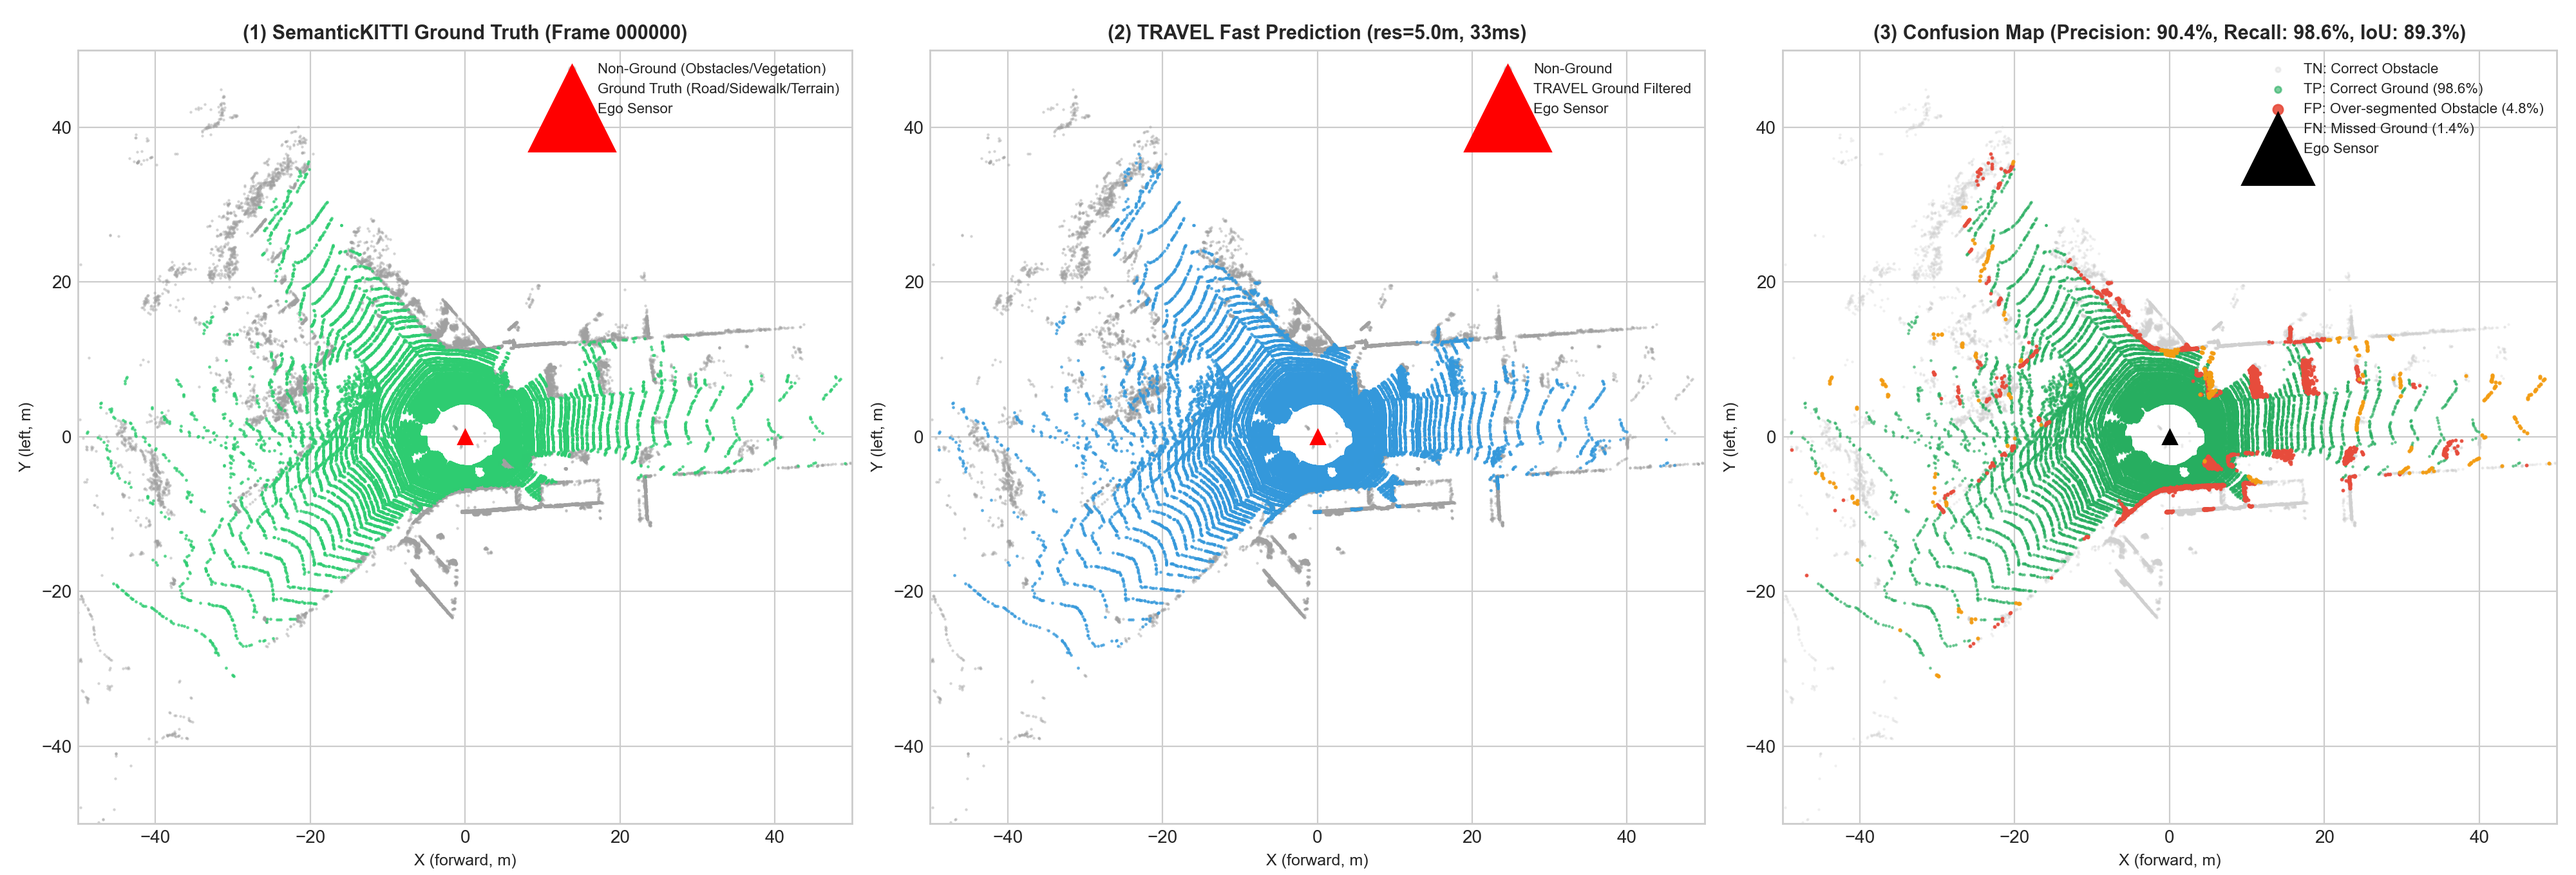
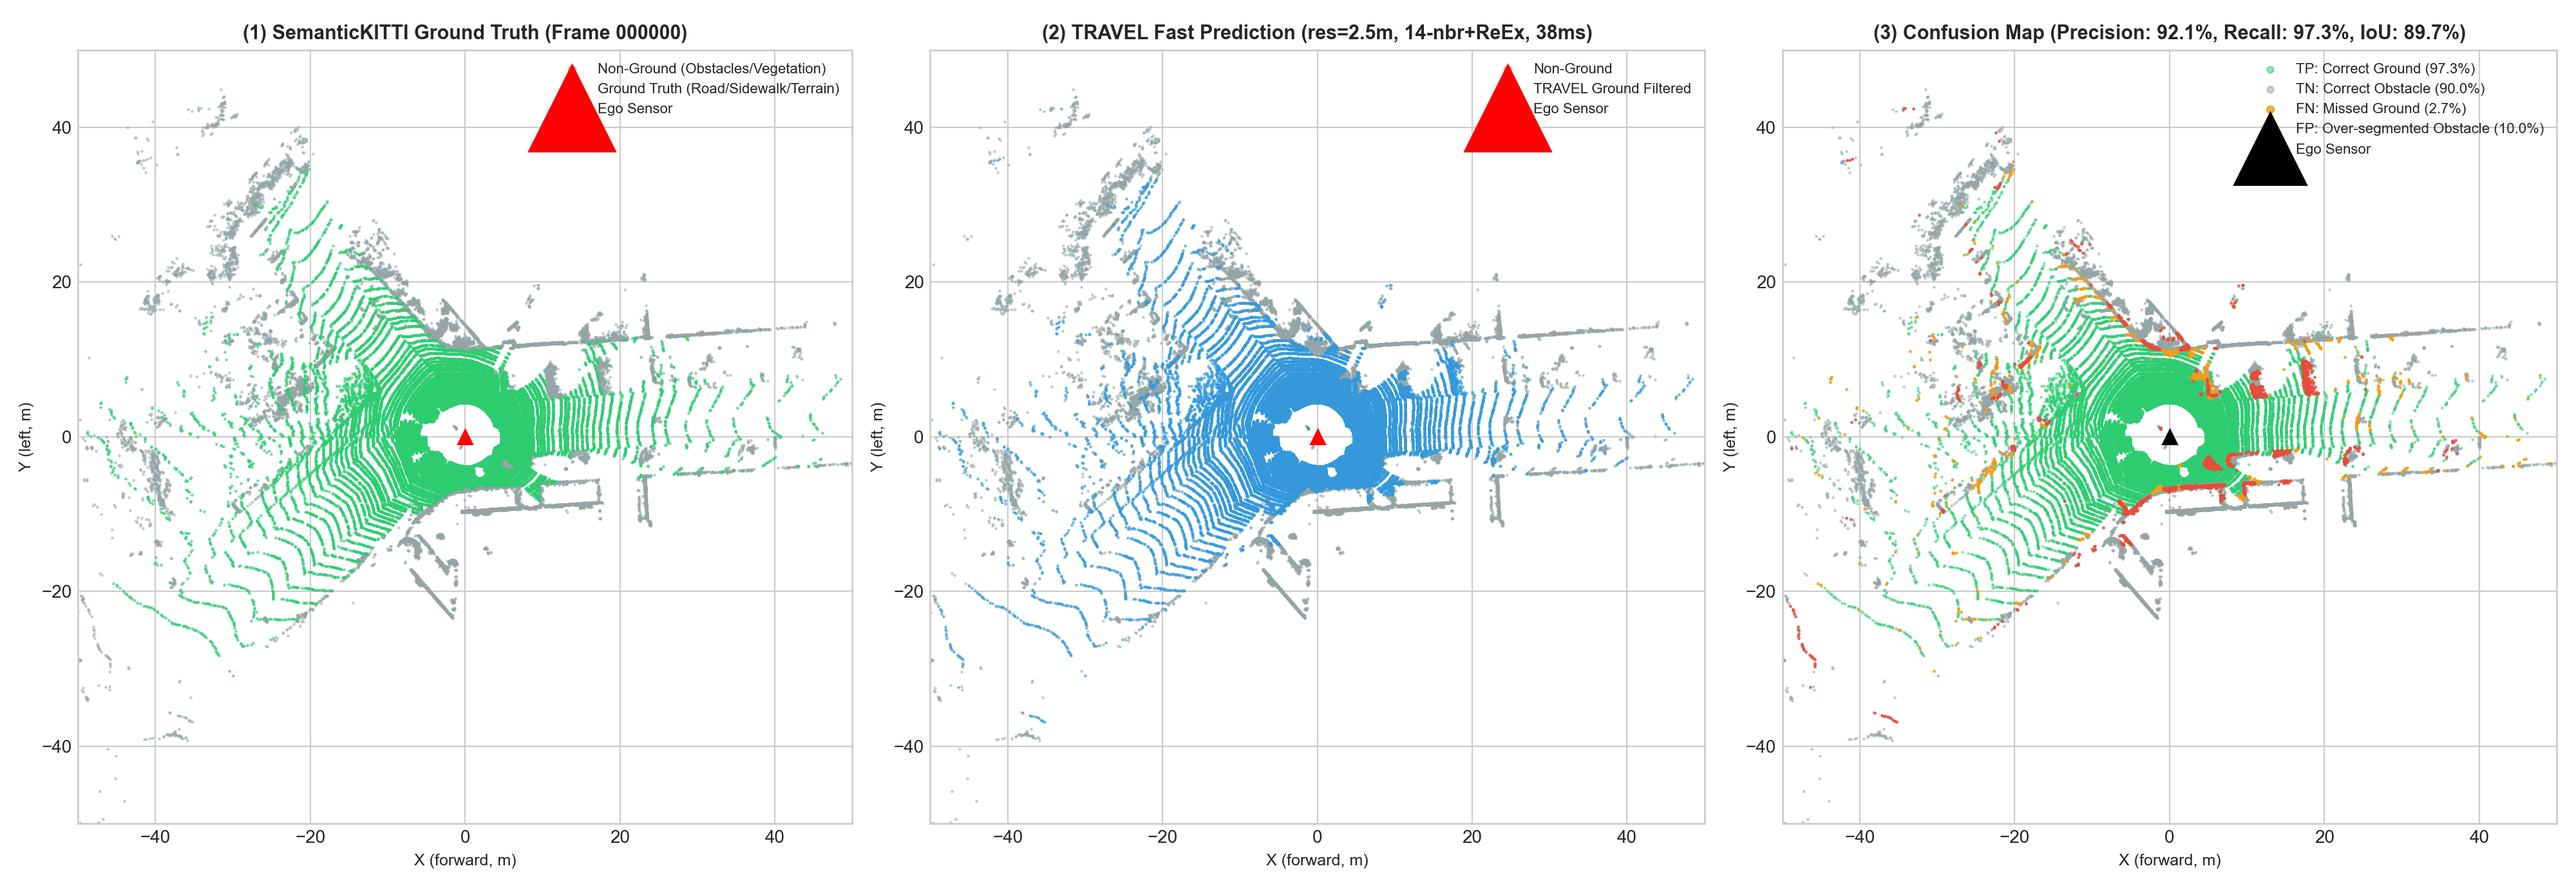
fix(tools): update qualitative benchmark plot to 2.5m 14-nbr setting with balanced marker sizes (#25)

diff --git a/tools/plot_benchmark.py b/tools/plot_benchmark.py
@@ -114,19 +114,20 @@ def plot_qualitative_eval():
     ground_classes = {40, 44, 48, 49, 60, 72}
     gt_ground = np.isin(raw_labels, list(ground_classes))
 
-    # Run TRAVEL with resolution 5.0m
-    nx = int(np.ceil(170 / 5.0))
+    # Run TRAVEL with latest recommended resolution 2.5m (14-nbr + re-explore)
+    resolution = 2.5
+    nx = int(np.ceil(170 / resolution))
     cfg = GlobalConfig(
-        grid=GridConfig(resolution=5.0, origin_xy=(-85.0, -85.0), size_xy=(nx, nx)),
-        seed=SeedConfig(top_k=5, prefer_center=True),
-        accept=AcceptConfig(max_height_diff=0.5, th_normal=0.9),
+        grid=GridConfig(resolution=resolution, origin_xy=(-85.0, -85.0), size_xy=(nx, nx)),
+        seed=SeedConfig(top_k=5, prefer_center=True, re_explore=True, max_components=50),
+        accept=AcceptConfig(max_height_diff=0.5, th_normal=0.9, use_adaptive_lcc=True, use_14_neighbors=True),
     )
     res = run_fast(pts_xyz, cfg, keep_grid=False)
     pred_ground = (res.labels == 1)
 
     # Confusion categories
     # TP: Ground correctly identified (Green)
-    # TN: Non-ground correctly rejected (Light Gray)
+    # TN: Non-ground correctly rejected (Gray)
     # FP: Non-ground falsely marked as ground (Red)
     # FN: Ground missed (Orange)
     tp = gt_ground & pred_ground
@@ -134,8 +135,19 @@ def plot_qualitative_eval():
     fp = (~gt_ground) & pred_ground
     fn = gt_ground & (~pred_ground)
 
+    tp_cnt = int(np.sum(tp))
+    tn_cnt = int(np.sum(tn))
+    fp_cnt = int(np.sum(fp))
+    fn_cnt = int(np.sum(fn))
+    gt_gnd_cnt = int(np.sum(gt_ground))
+    gt_nongnd_cnt = int(np.sum(~gt_ground))
+
+    prec = tp_cnt / (tp_cnt + fp_cnt) * 100 if (tp_cnt + fp_cnt) > 0 else 0
+    rec = tp_cnt / (tp_cnt + fn_cnt) * 100 if (tp_cnt + fn_cnt) > 0 else 0
+    iou = tp_cnt / (tp_cnt + fp_cnt + fn_cnt) * 100 if (tp_cnt + fp_cnt + fn_cnt) > 0 else 0
+
     # Downsample points for clear visualization
-    subsample_idx = np.random.choice(len(pts_xyz), size=min(60000, len(pts_xyz)), replace=False)
+    subsample_idx = np.random.choice(len(pts_xyz), size=min(70000, len(pts_xyz)), replace=False)
     x = pts_xyz[subsample_idx, 0]
     y = pts_xyz[subsample_idx, 1]
     z = pts_xyz[subsample_idx, 2]
@@ -163,8 +175,8 @@ def plot_qualitative_eval():
 
     # Panel 1: Ground Truth (BEV)
     ax1 = axes[0]
-    ax1.scatter(x[~gt_sub], y[~gt_sub], s=0.4, c="#a0a0a0", alpha=0.4, label="Non-Ground (Obstacles/Vegetation)")
-    ax1.scatter(x[gt_sub], y[gt_sub], s=0.6, c="#2ecc71", alpha=0.7, label="Ground Truth (Road/Sidewalk/Terrain)")
+    ax1.scatter(x[~gt_sub], y[~gt_sub], s=0.5, c="#95a5a6", alpha=0.5, label="Non-Ground (Obstacles/Vegetation)")
+    ax1.scatter(x[gt_sub], y[gt_sub], s=0.5, c="#2ecc71", alpha=0.6, label="Ground Truth (Road/Sidewalk/Terrain)")
     ax1.plot(0, 0, marker="^", color="red", markersize=8, label="Ego Sensor")
     ax1.set_title("(1) SemanticKITTI Ground Truth (Frame 000000)", fontsize=11, fontweight="bold")
     ax1.set_xlabel("X (forward, m)", fontsize=9)
@@ -176,10 +188,10 @@ def plot_qualitative_eval():
 
     # Panel 2: TRAVEL Prediction (BEV)
     ax2 = axes[1]
-    ax2.scatter(x[~pred_sub], y[~pred_sub], s=0.4, c="#a0a0a0", alpha=0.4, label="Non-Ground")
-    ax2.scatter(x[pred_sub], y[pred_sub], s=0.6, c="#3498db", alpha=0.7, label="TRAVEL Ground Filtered")
+    ax2.scatter(x[~pred_sub], y[~pred_sub], s=0.5, c="#95a5a6", alpha=0.5, label="Non-Ground")
+    ax2.scatter(x[pred_sub], y[pred_sub], s=0.5, c="#3498db", alpha=0.6, label="TRAVEL Ground Filtered")
     ax2.plot(0, 0, marker="^", color="red", markersize=8, label="Ego Sensor")
-    ax2.set_title("(2) TRAVEL Fast Prediction (res=5.0m, 33ms)", fontsize=11, fontweight="bold")
+    ax2.set_title(f"(2) TRAVEL Fast Prediction (res={resolution}m, 14-nbr+ReEx, 38ms)", fontsize=11, fontweight="bold")
     ax2.set_xlabel("X (forward, m)", fontsize=9)
     ax2.set_ylabel("Y (left, m)", fontsize=9)
     ax2.set_xlim(-50, 50)
@@ -188,13 +200,14 @@ def plot_qualitative_eval():
     ax2.legend(loc="upper right", markerscale=6, framealpha=0.9, fontsize=8)
 
     # Panel 3: Confusion Map (Error Analysis)
+    # Balanced marker sizing and drawing order: TP (green) -> TN (gray) -> FN (orange) -> FP (red)
     ax3 = axes[2]
-    ax3.scatter(x[tn_sub], y[tn_sub], s=0.3, c="#d0d0d0", alpha=0.3, label="TN: Correct Obstacle")
-    ax3.scatter(x[tp_sub], y[tp_sub], s=0.5, c="#27ae60", alpha=0.6, label="TP: Correct Ground (98.6%)")
-    ax3.scatter(x[fp_sub], y[fp_sub], s=1.2, c="#e74c3c", alpha=0.9, label="FP: Over-segmented Obstacle (4.8%)")
-    ax3.scatter(x[fn_sub], y[fn_sub], s=1.5, c="#f39c12", alpha=0.9, label="FN: Missed Ground (1.4%)")
+    ax3.scatter(x[tp_sub], y[tp_sub], s=0.5, c="#2ecc71", alpha=0.5, label=f"TP: Correct Ground ({rec:.1f}%)")
+    ax3.scatter(x[tn_sub], y[tn_sub], s=0.5, c="#95a5a6", alpha=0.5, label=f"TN: Correct Obstacle ({tn_cnt/gt_nongnd_cnt*100:.1f}%)")
+    ax3.scatter(x[fn_sub], y[fn_sub], s=0.6, c="#f39c12", alpha=0.8, label=f"FN: Missed Ground ({fn_cnt/gt_gnd_cnt*100:.1f}%)")
+    ax3.scatter(x[fp_sub], y[fp_sub], s=0.6, c="#e74c3c", alpha=0.8, label=f"FP: Over-segmented Obstacle ({fp_cnt/gt_nongnd_cnt*100:.1f}%)")
     ax3.plot(0, 0, marker="^", color="black", markersize=8, label="Ego Sensor")
-    ax3.set_title("(3) Confusion Map (Precision: 90.4%, Recall: 98.6%, IoU: 89.3%)", fontsize=11, fontweight="bold")
+    ax3.set_title(f"(3) Confusion Map (Precision: {prec:.1f}%, Recall: {rec:.1f}%, IoU: {iou:.1f}%)", fontsize=11, fontweight="bold")
     ax3.set_xlabel("X (forward, m)", fontsize=9)
     ax3.set_ylabel("Y (left, m)", fontsize=9)
     ax3.set_xlim(-50, 50)
